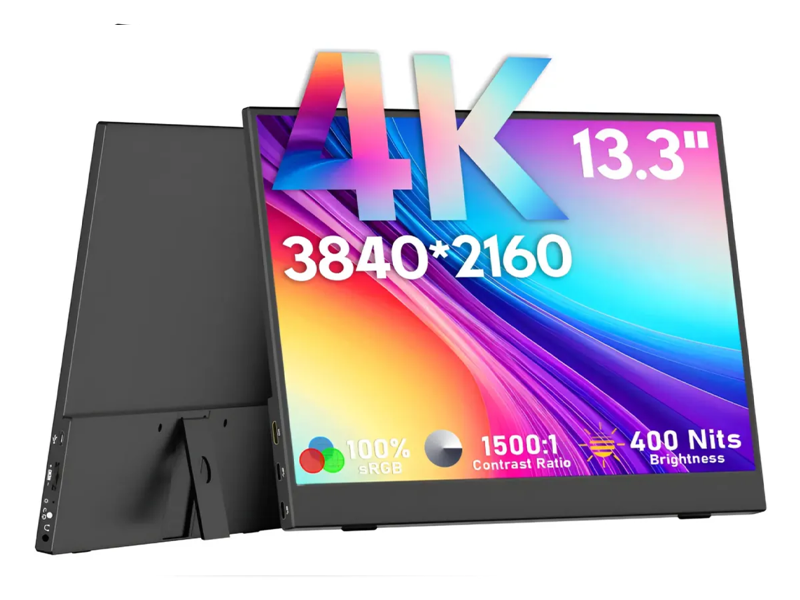
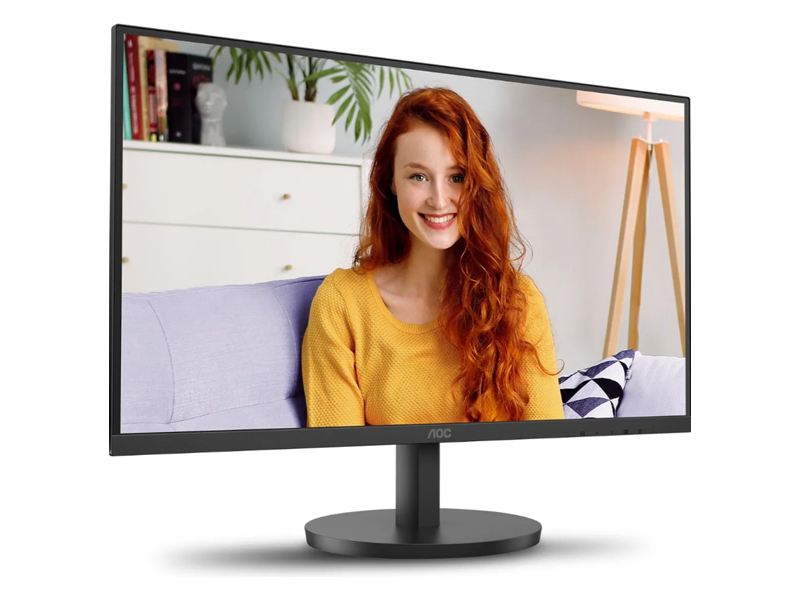
ATUALIZADO

diff --git a/index.html b/index.html
@@ -171,10 +171,22 @@
     </div>
     <div class="acc-row">
       <div class="acc-head" onclick="toggleAcc(this)"><span class="acc-title">Monitor AOC 27" 4K UHD IPS U27B3A (alto-falante integrado)</span><a class="acc-ref" href="https://www.mercadolivre.com.br/monitor-aoc-27-4k-uhd-ips-u27b3a-com-alto-falante-integrado/p/MLB51076311" target="_blank" rel="noopener" onclick="event.stopPropagation()">ver detalhe ↗</a><span class="acc-price"><span class="rs">R$</span><span class="amt">1.112,71</span></span><button class="acc-btn"></button></div>
-      <div class="acc-body"><div class="acc-cols"><div class="acc-col-img"><img src="img/img-34.png" alt="Monitor AOC 27 4K UHD IPS U27B3A"></div><div class="acc-col-txt"><p>Monitor AOC de 27 polegadas, painel IPS, resolução 4K UHD (3840×2160), com alto-falantes integrados. O painel IPS garante cores fiéis e ângulos de visão amplos. É a tela de trabalho do operador: nela ficam o software de produção (vMix), o multiview das câmeras, gráficos e controles durante o ao vivo. A resolução 4K dá espaço pra ver várias janelas/fontes ao mesmo tempo com nitidez, e os alto-falantes integrados servem de retorno simples. Preço: R$ 1.112,71 (Mercado Livre, jun/2026).</p></div></div></div>
+      <div class="acc-body"><div class="acc-cols"><div class="acc-col-img"><img src="img/img-35.png" alt="Monitor AOC 27 4K UHD IPS U27B3A"></div><div class="acc-col-txt"><p>Monitor AOC de 27 polegadas, painel IPS, resolução 4K UHD (3840×2160), com alto-falantes integrados. O painel IPS garante cores fiéis e ângulos de visão amplos. É a tela de trabalho do operador: nela ficam o software de produção (vMix), o multiview das câmeras, gráficos e controles durante o ao vivo. A resolução 4K dá espaço pra ver várias janelas/fontes ao mesmo tempo com nitidez, e os alto-falantes integrados servem de retorno simples. Preço: R$ 1.112,71 (Mercado Livre, jun/2026).</p></div></div></div>
+    </div>
+    <div class="acc-row">
+      <div class="acc-head" onclick="toggleAcc(this)"><span class="acc-title">Kit Teclado + Mouse sem fio (Multi CS1200 / TC301, BT + USB)</span><a class="acc-ref" href="https://www.mercadolivre.com.br/kit-teclado-e-mouse-sem-fio-cs1200-btusb-3200-multi-tc301-cor-de-teclado-preto/p/MLB36768119" target="_blank" rel="noopener" onclick="event.stopPropagation()">ver detalhe ↗</a><span class="acc-price"><span class="rs">R$</span><span class="amt">270,85</span></span><button class="acc-btn"></button></div>
+      <div class="acc-body"><div class="acc-cols"><div class="acc-col-img"><img src="img/img-34.png" alt="Kit teclado e mouse sem fio Multi CS1200 TC301"></div><div class="acc-col-txt"><p>Kit de teclado e mouse sem fio da Multilaser (teclado CS1200 + mouse TC301), com conexão dupla Bluetooth e receptor USB e mouse de 3200 DPI. São os periféricos pra operar o notebook de produção (vMix/OBS) com conforto, sem cabos atravessando a bancada. Preço: R$ 270,85 (Mercado Livre, jun/2026).</p></div></div></div>
+    </div>
+    <div class="acc-row">
+      <div class="acc-head" onclick="toggleAcc(this)"><span class="acc-title">Monitor portátil 13,3" 4K UHD IPS (HDR, ultrafino)</span><a class="acc-ref" href="https://www.mercadolivre.com.br/monitor-portatil-4k-133--tela-externa-hdr-ips-ultrafino/up/MLBU3588958656" target="_blank" rel="noopener" onclick="event.stopPropagation()">ver detalhe ↗</a><span class="acc-price"><span class="rs">R$</span><span class="amt">593,60</span></span><button class="acc-btn"></button></div>
+      <div class="acc-body"><div class="acc-cols"><div class="acc-col-img"><img src="img/img-36.png" alt="Monitor portátil 13,3 4K UHD IPS HDR"></div><div class="acc-col-txt"><p>Monitor portátil de 13,3 polegadas, painel IPS 4K UHD com HDR, ultrafino e leve. Tela externa que liga por HDMI ou USB-C ao notebook pra dar uma segunda tela (preview, multiview ou monitoramento) sem ocupar a bancada. Por ser portátil, é prático pra montar e levar em gravações externas. Preço: R$ 593,60 (Mercado Livre, jun/2026).</p></div></div></div>
+    </div>
+    <div class="acc-row">
+      <div class="acc-head" onclick="toggleAcc(this)"><span class="acc-title">Cortina para podcast Suede Veludo 2,60 × 2,20 m (estúdio, luxuosa)</span><span class="acc-price"><span class="amt">a cotar</span></span><button class="acc-btn"></button></div>
+      <div class="acc-body"><div class="acc-cols"><div class="acc-col-img"><img src="img/img-37.png" alt="Cortina para podcast suede veludo"></div><div class="acc-col-txt"><p>Cortina de fundo para podcast/estúdio em tecido suede aveludado, 2,60 × 2,20 m, acabamento luxuoso. Serve de fundo cênico atrás do apresentador: dá textura e cor, e absorve parte do reflexo e do ruído, deixando o set mais bonito e controlado. <b>Sem link ainda; preço a cotar (aguardando valor).</b></p></div></div></div>
     </div>
   </div>
-  <div class="note" style="text-align:right;"><b>Total dos itens selecionados: R$ 28.839,30</b></div>
+  <div class="note" style="text-align:right;"><b>Total dos itens selecionados: R$ 29.703,75 + cortina (a cotar)</b></div>
 
   <footer>
     Orçamento de referência gerado em jun/2026. Preços sujeitos a confirmação com fornecedores. Os links levam às lojas/páginas onde os valores foram observados; estoque e preço podem variar na data da compra.